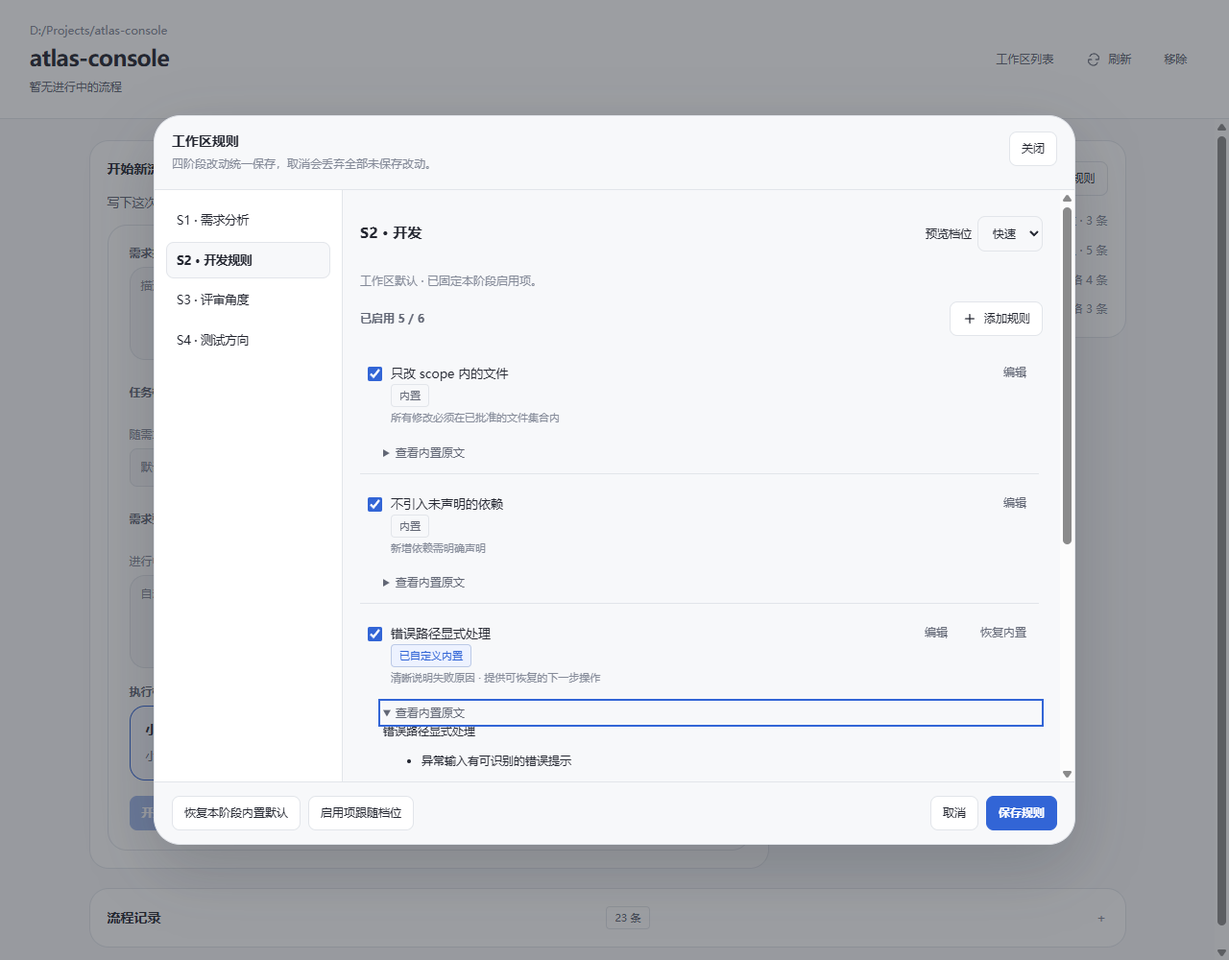
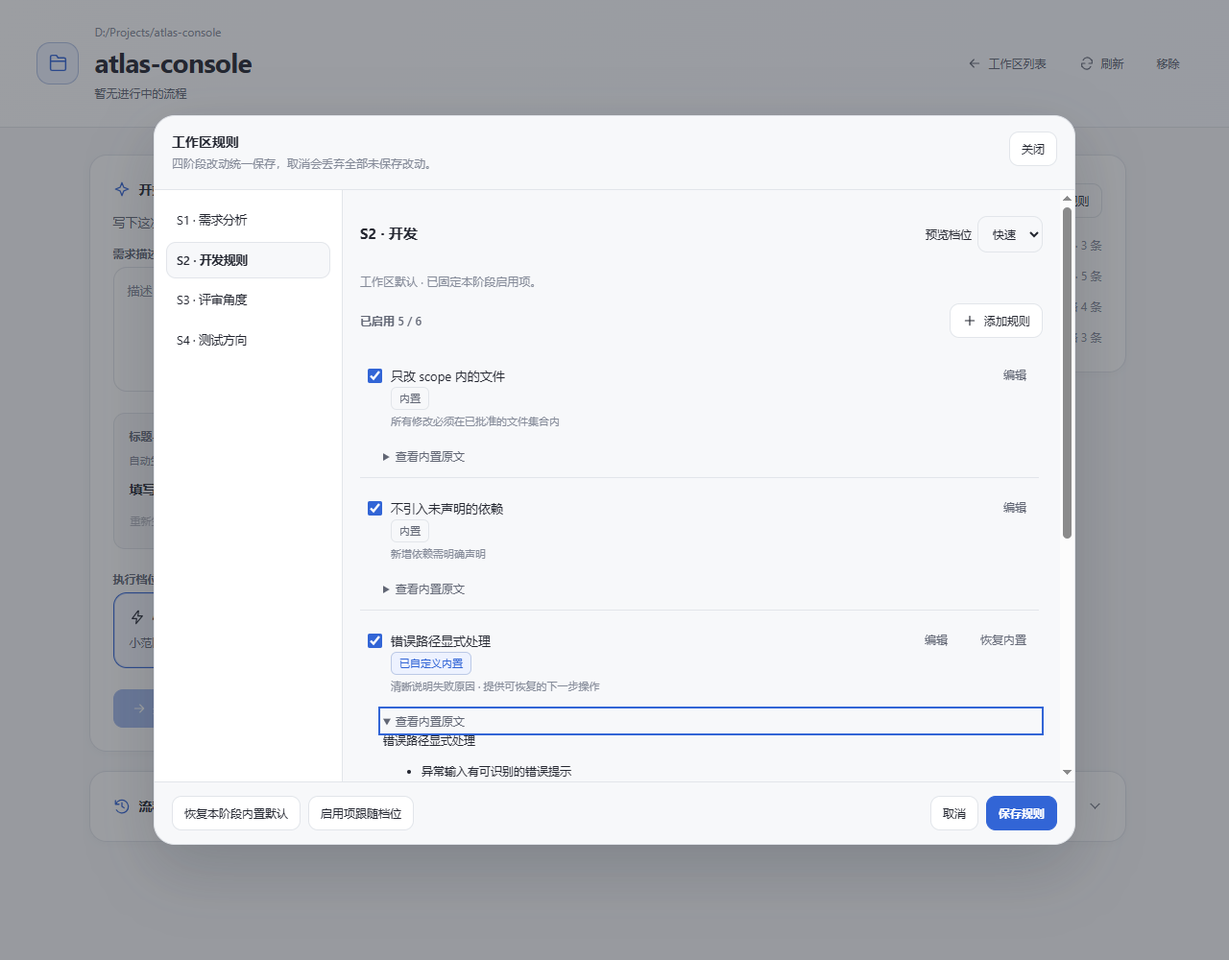
优化工作台现代化视觉与响应式布局
统一中英文字体、卡片层级、圆角留白与线性图标，完善焦点和减少动效支持。
优化规则弹窗与窄屏布局，更新界面截图和开发说明。
修正浏览器回归脚本以匹配自动生成表单，并覆盖五种宽度的明暗主题。

验证：467 项现有测试通过；130 个浏览器场景、672 项检查通过。

diff --git a/lib/client.js b/lib/client.js
@@ -17,16 +17,18 @@ window.__ModuleLoader__.load({
     const POLL_MS = 1500
 
     const CSS_TEXT = `
-.fg-root, .fg-root * { box-sizing: border-box; }
+.fg-root, .fg-root *, .fg-root *::before, .fg-root *::after { box-sizing: border-box; }
 /* 对齐官方 ui-theme：标签、控件、条目、内容块、卡片与弹窗分层使用圆角。
    左侧栏面板是唯一根，跟随宿主主题取值。 */
 .fg-root {
-  --fg-radius-badge: var(--dsw-radius-xs, 4px);
-  --fg-radius-control: var(--dsw-radius-sm, 8px);
-  --fg-radius-item: var(--dsw-radius-md, 12px);
-  --fg-radius-surface: var(--dsw-radius-lg, 16px);
-  --fg-radius-panel: var(--dsw-radius-xl, 20px);
-  --fg-radius-dialog: var(--dsw-radius-panel, 28px);
+  --fg-radius-badge: 6px;
+  --fg-radius-control: 10px;
+  --fg-radius-item: 12px;
+  --fg-radius-surface: 14px;
+  --fg-radius-panel: 18px;
+  --fg-radius-dialog: 22px;
+  --fg-shadow: 0 2px 8px color-mix(in srgb, var(--dsw-alias-label-primary) 3%, transparent);
+  --fg-accent-border: color-mix(in srgb, var(--dsw-alias-brand-primary) 28%, var(--dsw-alias-border-l2));
 }
 .fg-root {
   container: flowgate / inline-size;
@@ -36,8 +38,10 @@ window.__ModuleLoader__.load({
   min-width: 0;
   min-height: 0;
   overflow: hidden;
+  font-family: 'Segoe UI Variable', 'Segoe UI', 'PingFang SC', 'Microsoft YaHei UI', 'Microsoft YaHei', system-ui, sans-serif;
   font-size: 13px;
-  line-height: 1.6;
+  line-height: 1.7;
+  -webkit-font-smoothing: antialiased;
   color: var(--dsw-alias-label-primary);
   background: var(--dsw-alias-bg-base);
 }
@@ -58,10 +62,12 @@ window.__ModuleLoader__.load({
   width: 36px;
   height: 36px;
   flex: none;
-  border: 1px solid var(--dsw-alias-border-l2);
+  border: 1px solid var(--fg-accent-border);
   border-radius: var(--fg-radius-item);
-  background: var(--dsw-alias-interactive-bg-hover);
+  color: var(--dsw-alias-brand-primary);
+  background: var(--dsw-alias-state-business-tertiary);
 }
+.fg-brand-mark .fg-icon { width: 21px; height: 21px; }
 .fg-heading { min-width: 0; }
 .fg-title { font-weight: 650; font-size: 14px; line-height: 1.5; letter-spacing: 0.015em; }
 .fg-sub { color: var(--dsw-alias-label-secondary); font-size: 12px; line-height: 1.5; }
@@ -225,6 +231,7 @@ window.__ModuleLoader__.load({
 }
 .fg-modal-card:focus { outline: none; }
 .fg-modal-head {
+  flex-shrink: 0;
   display: flex;
   align-items: flex-start;
   justify-content: space-between;
@@ -304,11 +311,13 @@ window.__ModuleLoader__.load({
   color: inherit;
   font: inherit;
   cursor: pointer;
-  transition: border-color 140ms ease, background-color 140ms ease;
+  transition: border-color 160ms ease, background-color 160ms ease, box-shadow 160ms ease, transform 160ms ease;
 }
 .fg-opt:hover:not(:disabled) { border-color: var(--dsw-alias-state-business-primary); background: var(--dsw-alias-interactive-bg-hover); }
 .fg-opt:disabled { opacity: 0.5; cursor: not-allowed; }
-.fg-opt.rec { border-color: var(--dsw-alias-state-business-primary); background: color-mix(in srgb, var(--dsw-alias-state-business-tertiary) 55%, var(--dsw-alias-bg-layer-1)); }
+.fg-opt.rec { border-color: var(--dsw-alias-state-business-primary); background: color-mix(in srgb, var(--dsw-alias-state-business-tertiary) 55%, var(--dsw-alias-bg-layer-1)); box-shadow: inset 0 0 0 1px color-mix(in srgb, var(--dsw-alias-brand-primary) 18%, transparent); }
+.fg-preset-options .fg-opt-label::after { content: ''; margin-left: auto; width: 15px; height: 15px; flex: none; border: 1px solid var(--dsw-alias-border-l2); border-radius: 50%; }
+.fg-preset-options .fg-opt.rec .fg-opt-label::after { border: 5px solid var(--dsw-alias-brand-primary); background: var(--dsw-alias-bg-layer-1); }
 .fg-opt-label { display: flex; align-items: center; flex-wrap: wrap; gap: 8px; font-weight: 600; line-height: 1.5; }
 .fg-opt-label > .fg-badge { margin-left: auto; }
 .fg-opt-tradeoff { color: var(--dsw-alias-label-secondary); font-size: 12px; line-height: 1.65; overflow-wrap: anywhere; }
@@ -323,15 +332,20 @@ window.__ModuleLoader__.load({
 .fg-workspace-primary { min-width: 0; }
 .fg-current-flow h3 { margin: 0; font-size: 20px; overflow-wrap: anywhere; }
 .fg-current-flow p, .fg-start-section p { margin: 0; overflow-wrap: anywhere; }
-.fg-hub > .fg-head { gap: 16px; padding: 22px clamp(16px, 2.4cqi, 32px); }
+.fg-hub > .fg-head { gap: 16px; padding: 24px clamp(16px, 3cqi, 40px); background: linear-gradient(115deg, var(--dsw-alias-bg-layer-1), color-mix(in srgb, var(--dsw-alias-state-business-tertiary) 35%, var(--dsw-alias-bg-layer-1))); }
+.fg-hub > .fg-head > .fg-brand-mark { width: 44px; height: 44px; border-radius: 14px; }
 .fg-hub > .fg-head > .fg-heading { flex: 1; }
-.fg-hub > .fg-head h1 { margin: 3px 0 4px; font-size: 23px; font-weight: 650; line-height: 1.4; letter-spacing: -.025em; overflow-wrap: anywhere; }
+.fg-hub > .fg-head h1 { margin: 3px 0 4px; font-size: clamp(22px, 2.5cqi, 28px); font-weight: 650; line-height: 1.3; letter-spacing: -.025em; overflow-wrap: anywhere; }
 .fg-hub > .fg-head p { margin: 0; font-size: 12px; }
 .fg-hub > .fg-main > .fg-content { width: 100%; max-width: 1080px; margin-inline: auto; }
-.fg-hub .fg-ws-row { min-height: 112px; padding: 18px; gap: 8px; }
+.fg-hub .fg-ws-row { min-height: 160px; padding: 20px; gap: 8px; position: relative; box-shadow: var(--fg-shadow); }
+.fg-ws-symbol { display: grid; place-items: center; width: 36px; height: 36px; margin-bottom: 4px; border-radius: 10px; background: var(--dsw-alias-state-business-tertiary); color: var(--dsw-alias-brand-primary); }
+.fg-ws-symbol .fg-icon { width: 20px; height: 20px; }
+.fg-ws-arrow { position: absolute; right: 18px; top: 26px; color: var(--dsw-alias-label-tertiary); transition: transform 160ms ease; }
+.fg-ws-row:hover .fg-ws-arrow { transform: translateX(3px); color: var(--dsw-alias-brand-primary); }
 .fg-hub .fg-ws-name { font-size: 15px; }
 .fg-hub .fg-hub-pick { padding-top: 8px; }
-.fg-root :is(button, summary, input, textarea):focus-visible { outline: 2px solid var(--dsw-alias-state-business-primary); outline-offset: 3px; }
+.fg-root :is(button, summary, input, textarea, select, a, [tabindex]):focus-visible { outline: 2px solid var(--dsw-alias-state-business-primary); outline-offset: 3px; }
 @container flowgate (max-width: 480px) {
   .fg-decision-opt { padding: 12px; gap: 9px; }
   .fg-opt-arrow { display: none; }
@@ -359,7 +373,7 @@ window.__ModuleLoader__.load({
   text-align: center;
   overflow-wrap: anywhere;
   cursor: pointer;
-  transition: border-color 140ms ease, background-color 140ms ease;
+  transition: border-color 160ms ease, background-color 160ms ease, box-shadow 160ms ease, transform 160ms ease;
 }
 .fg-btn:hover:not(:disabled) { border-color: color-mix(in srgb, var(--dsw-alias-label-primary) 30%, var(--dsw-alias-border-l2)); background: color-mix(in srgb, var(--dsw-alias-label-primary) 6%, var(--dsw-alias-bg-layer-1)); color: var(--dsw-alias-label-primary); }
 .fg-btn:disabled { opacity: 0.45; cursor: not-allowed; }
@@ -414,7 +428,8 @@ window.__ModuleLoader__.load({
 .fg-check > span { min-width: 0; }
 .fg-check .fg-tiny { margin-top: 3px; font-size: 11px; line-height: 1.6; }
 .fg-grant { margin: 2px 0 6px 24px; border-left: 2px solid var(--dsw-alias-state-warn-secondary); border-radius: 0 var(--fg-radius-control) var(--fg-radius-control) 0; }
-.fg-input, .fg-textarea { width: 100%; min-width: 0; padding: 9px 11px; border: 1px solid var(--dsw-alias-border-l2); border-radius: var(--fg-radius-control); background: var(--dsw-alias-bg-base); color: inherit; font: inherit; font-size: 12px; line-height: 1.6; }
+.fg-input, .fg-textarea { transition: border-color 160ms ease, box-shadow 160ms ease; width: 100%; min-width: 0; padding: 9px 11px; border: 1px solid var(--dsw-alias-border-l2); border-radius: var(--fg-radius-control); background: var(--dsw-alias-bg-base); color: inherit; font: inherit; font-size: 12px; line-height: 1.6; }
+.fg-input:focus, .fg-textarea:focus { border-color: var(--dsw-alias-brand-primary); box-shadow: 0 0 0 3px color-mix(in srgb, var(--dsw-alias-brand-primary) 12%, transparent); }
 .fg-input::placeholder, .fg-textarea::placeholder { color: var(--dsw-alias-label-tertiary); opacity: 1; }
 .fg-textarea { min-height: 88px; border-radius: var(--fg-radius-surface); resize: vertical; }
 .fg-form { padding: 12px; border: 1px solid var(--dsw-alias-border-l2); border-radius: var(--fg-radius-surface); background: var(--dsw-alias-bg-base); }
@@ -486,7 +501,7 @@ window.__ModuleLoader__.load({
 }
 @container flowgate (max-width: 720px) {
   .fg-modal { padding: 12px; }
-  .fg-modal-card { width: 100%; max-height: none; height: calc(100vh - 24px); }
+  .fg-modal-card { width: 100%; max-height: none; height: calc(100vh - 24px); height: calc(100dvh - 24px); }
   .fg-modal-body { grid-template-columns: minmax(0, 1fr); grid-template-rows: auto minmax(0, 1fr); }
   .fg-modal-nav { flex-direction: row; overflow: auto; padding: 10px; border-right: 0; border-bottom: 1px solid var(--dsw-alias-border-l2); }
   .fg-modal-tab { width: auto; white-space: nowrap; }
@@ -509,17 +524,19 @@ window.__ModuleLoader__.load({
   .fg-preset-options { grid-template-columns: minmax(0, 1fr); }
 }
 @media (prefers-reduced-motion: reduce) {
-  .fg-root * { transition: none; }
+  .fg-root *, .fg-root *::before, .fg-root *::after { transition: none !important; animation: none !important; }
+  .fg-root .fg-ws-row:hover, .fg-root .fg-ws-row:hover .fg-ws-arrow { transform: none; }
 }
 /* 左侧栏全局面板：先挑工作区，再挑那条流程。根复用 .fg-root 的布局，
    这里只补条目形态，避免出现第二套按钮/卡片视觉。 */
-.fg-hub-ws { display: grid; grid-template-columns: repeat(auto-fill, minmax(220px, 1fr)); gap: 10px; }
+.fg-hub-ws { display: grid; grid-template-columns: repeat(auto-fill, minmax(min(100%, 240px), 1fr)); gap: 16px; }
 .fg-ws-row {
   display: flex; flex-direction: column; gap: 4px; padding: 12px 14px; text-align: left;
   border: 1px solid var(--dsw-alias-border-l2); border-radius: var(--fg-radius-item);
   background: var(--dsw-alias-bg-layer-1); color: inherit; font: inherit; cursor: pointer;
 }
-.fg-ws-row:hover { border-color: color-mix(in srgb, var(--dsw-alias-label-primary) 30%, var(--dsw-alias-border-l2)); }
+.fg-ws-row { transition: border-color 160ms ease, box-shadow 160ms ease, transform 160ms ease; }
+.fg-ws-row:hover { border-color: var(--fg-accent-border); transform: translateY(-2px); box-shadow: 0 8px 24px color-mix(in srgb, var(--dsw-alias-label-primary) 6%, transparent); }
 .fg-ws-row.on { border-color: var(--dsw-alias-brand-primary); background: var(--dsw-alias-state-business-tertiary); }
 .fg-ws-name { font-weight: 600; overflow-wrap: anywhere; }
 .fg-ws-path { color: var(--dsw-alias-label-tertiary); font-size: 11px; overflow-wrap: anywhere; }
@@ -529,22 +546,32 @@ window.__ModuleLoader__.load({
   border: 1px solid var(--dsw-alias-border-l2); border-radius: var(--fg-radius-item);
   background: var(--dsw-alias-bg-layer-1); color: inherit; font: inherit; cursor: pointer;
 }
-.fg-flow-row:hover { border-color: color-mix(in srgb, var(--dsw-alias-label-primary) 30%, var(--dsw-alias-border-l2)); }
+.fg-flow-row { transition: border-color 160ms ease, background-color 160ms ease; }
+.fg-flow-row:hover { border-color: var(--fg-accent-border); background: var(--dsw-alias-bg-base); }
 .fg-flow-row-main { display: flex; flex-direction: column; gap: 3px; min-width: 0; flex: 1 1 auto; }
 .fg-flow-title { font-weight: 600; overflow: hidden; text-overflow: ellipsis; white-space: nowrap; }
 .fg-flow-summary { display: -webkit-box; -webkit-line-clamp: 2; -webkit-box-orient: vertical; overflow: hidden; overflow-wrap: anywhere; color: var(--dsw-alias-label-secondary); font-size: 12px; }
 /* 面板没有浮层输入框，不需要会话页那 152px 的 composer clearance。 */
-.fg-hub > .fg-main { padding: 22px clamp(16px, 2.4cqi, 32px) 32px; }
+.fg-hub > .fg-main { padding: 28px clamp(16px, 3cqi, 40px) 40px; }
 .fg-hub-section { display: flex; flex-direction: column; gap: 12px; min-width: 0; }
 .fg-workspace-overview { display: grid; grid-template-columns: minmax(0, 1fr); align-items: start; gap: 18px; }
 .fg-workspace-tools { display: flex; flex-direction: column; gap: 18px; min-width: 0; }
-.fg-workspace-card { padding: 18px; border: 1px solid var(--dsw-alias-border-l2); border-radius: var(--fg-radius-panel); background: var(--dsw-alias-bg-layer-1); }
+.fg-workspace-card { padding: 24px; border: 1px solid var(--dsw-alias-border-l2); border-radius: var(--fg-radius-panel); background: var(--dsw-alias-bg-layer-1); box-shadow: var(--fg-shadow); }
+.fg-section-head h2 { display: inline-flex; align-items: center; gap: 9px; }
+.fg-section-head h2 > .fg-icon { color: var(--dsw-alias-brand-primary); width: 18px; height: 18px; }
+.fg-start-section > .fg-card { padding: 0; border: 0; background: transparent; border-radius: 0; gap: 22px; }
+.fg-start-section .fg-textarea { min-height: 130px; padding: 14px; font-size: 13px; background: var(--dsw-alias-bg-layer-1); }
+.fg-start-generated { padding: 14px 16px; gap: 8px; border: 1px solid var(--dsw-alias-border-l2); border-radius: var(--fg-radius-item); background: var(--dsw-alias-bg-base); }
+.fg-start-generated > .fg-tiny { font-size: 11px; }
+.fg-start-generated .fg-btn { padding: 4px 0; min-height: 28px; font-size: 11px; }
+.fg-start-section .fg-card > .fg-row:last-of-type > .fg-btn { min-height: 40px; padding-inline: 18px; }
 .fg-section-head { display: flex; align-items: center; justify-content: space-between; flex-wrap: wrap; gap: 10px; min-width: 0; }
 .fg-section-head h2 { font-size: 14px; margin: 0; font-weight: 650; }
 .fg-flow-history > summary { cursor: pointer; list-style: none; }
 .fg-flow-history > summary::-webkit-details-marker { display: none; }
-.fg-flow-history > summary::after { content: '＋'; color: var(--dsw-alias-label-tertiary); }
-.fg-flow-history[open] > summary::after { content: '−'; }
+.fg-flow-history > summary::after { content: ''; width: 7px; height: 7px; margin: 0 4px 4px auto; flex: none; border-right: 1.5px solid var(--dsw-alias-label-secondary); border-bottom: 1.5px solid var(--dsw-alias-label-secondary); transform: rotate(45deg); }
+.fg-flow-history[open] > summary::after { transform: rotate(225deg); margin-bottom: 0; }
+.fg-flow-history > summary > .fg-badge { margin-left: auto; }
 .fg-flow-history[open] > summary { margin-bottom: 14px; }
 .fg-flow-history .fg-flow-list { max-height: 360px; overflow: auto; scrollbar-gutter: stable; }
 .fg-pagination { display: flex; align-items: center; justify-content: space-between; flex-wrap: wrap; gap: 10px; padding-top: 14px; margin-top: 12px; border-top: 1px solid var(--dsw-alias-border-l2); }
@@ -572,12 +599,15 @@ window.__ModuleLoader__.load({
 .fg-start-title { font-size: 14px; font-weight: 600; overflow-wrap: anywhere; }
 .fg-start-summary > summary { cursor: pointer; color: var(--dsw-alias-label-secondary); font-size: 12px; }
 .fg-start-summary .fg-requirement-text { margin-top: 8px; font-size: 13px; color: var(--dsw-alias-label-secondary); }
-.fg-workspace-rule-footer { display: flex; justify-content: space-between; flex-wrap: wrap; gap: 10px; padding: 14px 18px; border-top: 1px solid var(--dsw-alias-border-l2); }
+.fg-workspace-rule-footer { flex-shrink: 0; display: flex; justify-content: space-between; flex-wrap: wrap; gap: 10px; padding: 14px 18px; border-top: 1px solid var(--dsw-alias-border-l2); }
 @container flowgate (min-width: 900px) {
   .fg-workspace-overview { grid-template-columns: minmax(0, 2fr) minmax(0, 1fr); }
 }
 @container flowgate (max-width: 480px) {
-  .fg-workspace-card { padding: 14px; }
+  .fg-workspace-card { padding: 16px; }
+  .fg-flow-row { align-items: flex-start; flex-wrap: wrap; }
+  .fg-flow-row-main { flex-basis: 100%; }
+  .fg-hub > .fg-head { gap: 12px; padding-block: 18px; }
   .fg-workspace-rule-row { flex-wrap: wrap; }
   .fg-workspace-rule-row > .fg-row { margin-left: auto; }
 }
@@ -789,16 +819,24 @@ window.__ModuleLoader__.load({
     // 原子组件
     // -----------------------------------------------------------------------
 
-    function Icon({ name }) {
+    function Icon({ name, size }) {
       const paths = {
-        workbench: 'M3 3h7v7H3z M14 3h7v7h-7z M3 14h7v7H3z M14 14h7v7h-7z',
+        workbench: 'M5 3h4a2 2 0 0 1 2 2v4a2 2 0 0 1-2 2H5a2 2 0 0 1-2-2V5a2 2 0 0 1 2-2Z M15 3h4a2 2 0 0 1 2 2v4a2 2 0 0 1-2 2h-4a2 2 0 0 1-2-2V5a2 2 0 0 1 2-2Z M5 15h4a2 2 0 0 1 2 2v2a2 2 0 0 1-2 2H5a2 2 0 0 1-2-2v-2a2 2 0 0 1 2-2Z M17 15v6 M14 18h6',
+        folder: 'M3 7V5a2 2 0 0 1 2-2h5l2 3h7a2 2 0 0 1 2 2v11a2 2 0 0 1-2 2H5a2 2 0 0 1-2-2V7Z M3 10h18',
+        arrow: 'M5 12h14 M13 6l6 6-6 6',
+        back: 'M19 12H5 M11 6l-6 6 6 6',
+        spark: 'm12 3 2.5 6.5L21 12l-6.5 2.5L12 21l-2.5-6.5L3 12l6.5-2.5L12 3Z',
+        settings: 'M4 7h16 M4 17h16 M8 4v6 M16 14v6',
+        history: 'M3 4v5h5 M3.5 9a9 9 0 1 1 .8 8 M12 7v5l3 2',
+        bolt: 'm13 2-9 12h7l-1 8 10-12h-7l1-8Z',
+        shield: 'm12 3 8 3v6c0 5-8 9-8 9s-8-4-8-9V6l8-3Z M8 12l3 3 5-6',
         refresh: 'M20 7v5h-5 M4 17v-5h5 M6.1 7a7 7 0 0 1 11.5-2L20 8 M4 16l2.4 3A7 7 0 0 0 18 17',
         panel: 'M4 4h16v16H4z M14 4v16',
         check: 'M5 12l4 4L19 6',
         plus: 'M12 5v14 M5 12h14',
         lock: 'M6 10h12v10H6z M8 10V7a4 4 0 0 1 8 0v3',
       }
-      return h('svg', { className: 'fg-icon', viewBox: '0 0 24 24', fill: 'none', stroke: 'currentColor', strokeWidth: 1.7, strokeLinecap: 'round', strokeLinejoin: 'round', 'aria-hidden': true },
+      return h('svg', { className: 'fg-icon', width: size, height: size, style: size ? { width: size, height: size } : undefined, viewBox: '0 0 24 24', fill: 'none', stroke: 'currentColor', strokeWidth: 1.7, strokeLinecap: 'round', strokeLinejoin: 'round', 'aria-hidden': true },
         h('path', { d: paths[name] || paths.workbench }))
     }
 
@@ -806,7 +844,7 @@ window.__ModuleLoader__.load({
       return h('span', { className: 'fg-badge' + (tone ? ' ' + tone : '') }, children)
     }
 
-    function Btn({ children, onClick, disabled, tone, title, expanded, controls, buttonRef, 'aria-label': ariaLabel }) {
+    function Btn({ children, icon, onClick, disabled, tone, title, expanded, controls, buttonRef, 'aria-label': ariaLabel }) {
       return h('button', {
         type: 'button',
         className: 'fg-btn' + (tone ? ' ' + tone : ''),
@@ -817,7 +855,7 @@ window.__ModuleLoader__.load({
         'aria-controls': controls,
         'aria-label': ariaLabel,
         ref: buttonRef,
-      }, children)
+      }, icon ? h(Icon, { name: icon }) : null, children)
     }
 
     function Card({ title, children, grow, extra }) {
@@ -1762,8 +1800,8 @@ window.__ModuleLoader__.load({
         h('div', { className: 'fg-field' }, h('span', { className: 'fg-sec-title' }, '执行档位'),
           h('div', { className: 'fg-preset-options' }, options.map((key) => h('button', { key: 'start-preset-' + key, type: 'button',
             className: 'fg-opt' + (preset === key ? ' rec' : ''), 'aria-pressed': preset === key, disabled: busy, onClick: () => updateDraft({ preset: key }) },
-            h('span', { className: 'fg-opt-label' }, h('span', null, presetInfo(key).label)), h('span', { className: 'fg-opt-tradeoff' }, presetInfo(key).summary))))),
-        h('div', { className: 'fg-row' }, h(Btn, { tone: 'primary', disabled: busy || !brief.trim() || brief.length > 20000, onClick: () => { void begin() } }, busy ? '正在启动…' : '开始需求分析')),
+            h('span', { className: 'fg-opt-label' }, h(Icon, { name: key === 'fast' ? 'bolt' : 'shield' }), h('span', null, presetInfo(key).label)), h('span', { className: 'fg-opt-tradeoff' }, presetInfo(key).summary))))),
+        h('div', { className: 'fg-row' }, h(Btn, { tone: 'primary', icon: 'arrow', disabled: busy || !brief.trim() || brief.length > 20000, onClick: () => { void begin() } }, busy ? '正在启动…' : '开始需求分析')),
         error ? h('div', { className: 'fg-err', role: 'alert' }, error) : null)
     }
     /** 把毫秒说成人话：进度条右边那一小块。 */
@@ -1902,9 +1940,11 @@ function FlowDetail(props) {
         onClick: props.onClick,
         title: props.path,
       },
+        h('span', { className: 'fg-ws-symbol' }, h(Icon, { name: 'folder' })),
+        h('span', { className: 'fg-ws-arrow' }, h(Icon, { name: 'arrow' })),
         h('span', { className: 'fg-ws-name' }, props.name),
         h('span', { className: 'fg-ws-path' }, props.path),
-        h('span', { className: 'fg-tiny' }, props.hint || '进入 →'))
+        h('span', { className: 'fg-tiny' }, props.hint || '进入工作区'))
     }
 
     function HubFlowRow(props) {
@@ -2021,7 +2061,7 @@ function FlowDetail(props) {
       }
       return h('section', { className: 'fg-hub-section fg-workspace-card fg-workspace-rules', 'aria-label': '工作区规则' },
         h('div', { className: 'fg-section-head' },
-          h('div', null, h('h2', null, '工作区规则'), h('div', { className: 'fg-tiny' }, missing ? '目录不可用' : loading ? '正在读取…' : rules ? '新流程按阶段继承；本次调整优先。' : '规则读取失败')),
+          h('div', null, h('h2', null, h(Icon, { name: 'settings' }), '工作区规则'), h('div', { className: 'fg-tiny' }, missing ? '目录不可用' : loading ? '正在读取…' : rules ? '新流程按阶段继承；本次调整优先。' : '规则读取失败')),
           h(Btn, { disabled: missing || loading || !rules, onClick: open }, '编辑规则')),
         rules ? h('div', { className: 'fg-stage-rule-summary' }, RULE_STAGES.map(({ id, label }) => {
           const stage = stages[id]
@@ -2296,6 +2336,7 @@ function FlowDetail(props) {
         const candidates = hostWorkspaces.filter((item) => item.path && !known.has(item.path))
         return h('div', HUB_ROOT_PROPS,
           h('header', { className: 'fg-head' },
+            h('span', { className: 'fg-brand-mark' }, h(Icon, { name: 'workbench' })),
             h('div', { className: 'fg-heading' },
               h('div', { className: 'fg-tiny' }, '流程工作台'),
               h('h1', null, '工作区'),
@@ -2325,7 +2366,7 @@ function FlowDetail(props) {
                     }))),
                 h('div', { className: 'fg-hub-pick' },
                   h('div', { className: 'fg-hub-pick-row' },
-                    h(Btn, { tone: 'primary', disabled: Boolean(busyPath) || picking || !hubActions, onClick: () => { void pick() } },
+                    h(Btn, { tone: 'primary', icon: 'plus', disabled: Boolean(busyPath) || picking || !hubActions, onClick: () => { void pick() } },
                       picking ? '正在打开…' : '添加目录…'),
                     h(Btn, { tone: 'quiet', disabled: Boolean(busyPath), onClick: () => setAdding((value) => !value) },
                       adding ? '收起列表' : '添加工作区')),
@@ -2357,6 +2398,7 @@ function FlowDetail(props) {
       const name = member ? (member.name || member.path) : selected
 
       const header = h('header', { className: 'fg-head' },
+        h('span', { className: 'fg-brand-mark' }, h(Icon, { name: 'folder' })),
         h('div', { className: 'fg-heading' },
           h('div', { className: 'fg-tiny' }, selected),
           h('h1', null, name),
@@ -2369,7 +2411,7 @@ function FlowDetail(props) {
                   ? '进行中 ' + member.activeCount + ' 条' + (member.waitingCount > 0 ? '，其中 ' + member.waitingCount + ' 条在等你确认' : '')
                   : '暂无进行中的流程')),
         h('div', { className: 'fg-toolbar' },
-          h(Btn, { tone: 'quiet', onClick: () => { setSelected(null); setOpened(null); setError(null); setNotice(null) } }, '工作区列表'),
+          h(Btn, { tone: 'quiet', icon: 'back', onClick: () => { setSelected(null); setOpened(null); setError(null); setNotice(null) } }, '工作区列表'),
           h(Btn, { tone: 'quiet', disabled: loading || flowLoading, title: '重新读盘', onClick: () => setTick((value) => value + 1) },
             h(Icon, { name: 'refresh' }), '刷新'),
           h(Btn, { tone: 'quiet', onClick: () => { void remove(selected) } }, '移除')))
@@ -2381,7 +2423,7 @@ function FlowDetail(props) {
       if (errorLine) body.push(h('div', { key: 'error' }, errorLine))
       const history = h('details', { key: 'history-' + selected, className: 'fg-workspace-card fg-flow-history', open: false },
         h('summary', { className: 'fg-section-head' },
-          h('h2', null, '流程记录'), h(Badge, null, total + ' 条')),
+          h('h2', null, h(Icon, { name: 'history' }), '流程记录'), h(Badge, null, total + ' 条')),
         member?.missing
           ? h('div', { className: 'fg-muted fg-empty' }, '目录不可用')
           : flowError
@@ -2403,7 +2445,7 @@ function FlowDetail(props) {
             h(Btn, { disabled: flowLoading || !currentPage || displayedPage >= pageCount, onClick: () => changePage(displayedPage + 1) }, '下一页'))) : null)
 
       const start = h('section', { key: 'start-' + selected, className: 'fg-hub-section fg-workspace-card fg-start-section', 'aria-label': '开始新流程' },
-        h('div', { className: 'fg-section-head' }, h('h2', null, '开始新流程')),
+        h('div', { className: 'fg-section-head' }, h('h2', null, h(Icon, { name: 'spark' }), '开始新流程')),
         h('p', { className: 'fg-muted' }, '写下这次要完成的需求，从需求分析开始。'),
         h(StartPanel, {
           path: selected,
@@ -2436,13 +2478,13 @@ function FlowDetail(props) {
       } else if (currentFlow) {
         primary = h('section', { className: 'fg-hub-section fg-workspace-card fg-current-flow', 'aria-label': '当前流程' },
           h('div', { className: 'fg-section-head' },
-            h('h2', null, '当前流程'),
+            h('h2', null, h(Icon, { name: 'bolt' }), '当前流程'),
             h(Badge, { tone: currentFlow.waiting ? 'warn' : 'info' }, currentFlow.waiting ? '等你确认' : '进行中')),
           h('h3', null, currentFlow.title || '未命名需求'),
           h('div', { className: 'fg-tiny' }, currentFlow.stage + ' · ' + currentFlow.stageLabel),
           h(RequirementSummary, { brief: currentFlow.brief, summary: currentFlow.summary }),
           h('div', { className: 'fg-row' }, h(Btn, {
-            tone: 'primary',
+            tone: 'primary', icon: 'arrow',
             onClick: () => setOpened({ ...currentFlow, workspace: selected }),
           }, '继续流程')))
       } else if (flowLoading || !workspaceData || !member) {
@@ -2488,11 +2530,7 @@ function FlowDetail(props) {
     /** 侧栏图标：和宿主 panellist 其它条目一样只画字形，按钮外壳由侧栏提供。 */
     function HubPanelIcon(props) {
       const size = Number(props?.size) || 20
-      return h('svg', {
-        width: size, height: size, viewBox: '0 0 24 24', fill: 'none',
-        stroke: 'currentColor', strokeWidth: 1.7, strokeLinecap: 'round', strokeLinejoin: 'round',
-        'aria-hidden': true,
-      }, h('path', { d: 'M3 3h7v7H3z M14 3h7v7h-7z M3 14h7v7H3z M14 14h7v7h-7z' }))
+      return h(Icon, { name: 'workbench', size })
     }
 
 

diff --git a/docs/development.md b/docs/development.md
@@ -213,8 +213,8 @@ README 的界面图使用真实插件组件与示例数据；[预览页](ui-prev
 
 1. 连接已有 Chrome CDP，或启动独立调试实例，传入 `--headless=new --remote-debugging-port=9229 --allow-file-access-from-files --user-data-dir=<独立临时目录>`，不要使用日常浏览器的用户目录。
 2. 在项目根运行 `node docs/capture-ui.mjs`；只验证、不改图片时运行 `node docs/capture-ui.mjs --verify-only`。调试地址可通过 `FLOWGATE_CDP` 覆盖。脚本新建独立标签，完成后关闭，保留原有标签与页面。
-3. 脚本在 390 / 768 / 1280 像素、明暗主题下检查空闲但有已结束历史、进行中、完成后与放弃后的布局，同时验证历史展开/收起、每页 10 条分页，以及键盘启动、继续和历史操作。预览可用 `?stage=workspace&state=idle|active|finished|cancelled&theme=light|dark` 切换；进行中样例位于历史第三页，用于检查主入口独立于分页。
-4. 同时验证四阶段规则切换、默认原文对照、恢复与统一保存、Esc 取消，以及标题和整理稿生成、手工保护与失败重试。人工核对生成的两张图；真实 DSH 仍需按宿主方式构建并刷新其原有 GUI 地址，再单独验证。
+3. 脚本在 264 / 320 / 390 / 768 / 1280 像素、明暗主题下检查空闲但有已结束历史、进行中、完成后与放弃后的布局，同时验证历史展开/收起、每页 10 条分页，以及键盘启动、继续和历史操作。预览可用 `?stage=workspace&state=idle|active|finished|cancelled&theme=light|dark` 切换；进行中样例位于历史第三页，用于检查主入口独立于分页。
+4. 同时验证四阶段规则切换、默认原文对照、恢复与统一保存、Esc 取消，以及标题和整理稿自动生成、迟到响应隔离与失败重试。人工核对生成的两张图；真实 DSH 仍需按宿主方式构建并刷新其原有 GUI 地址，再单独验证。
 
 **回归验证**：源码语法检查及宿主、子代理、集成、客户端、安装五套测试全部通过。新增覆盖无工具预热的宿主重启恢复、目录扫描/文件签名/快照读取错误的连续重试与恢复，以及规则保存、分页、刷新、目录切换后的需求草稿保留和成功启动清理。
 
